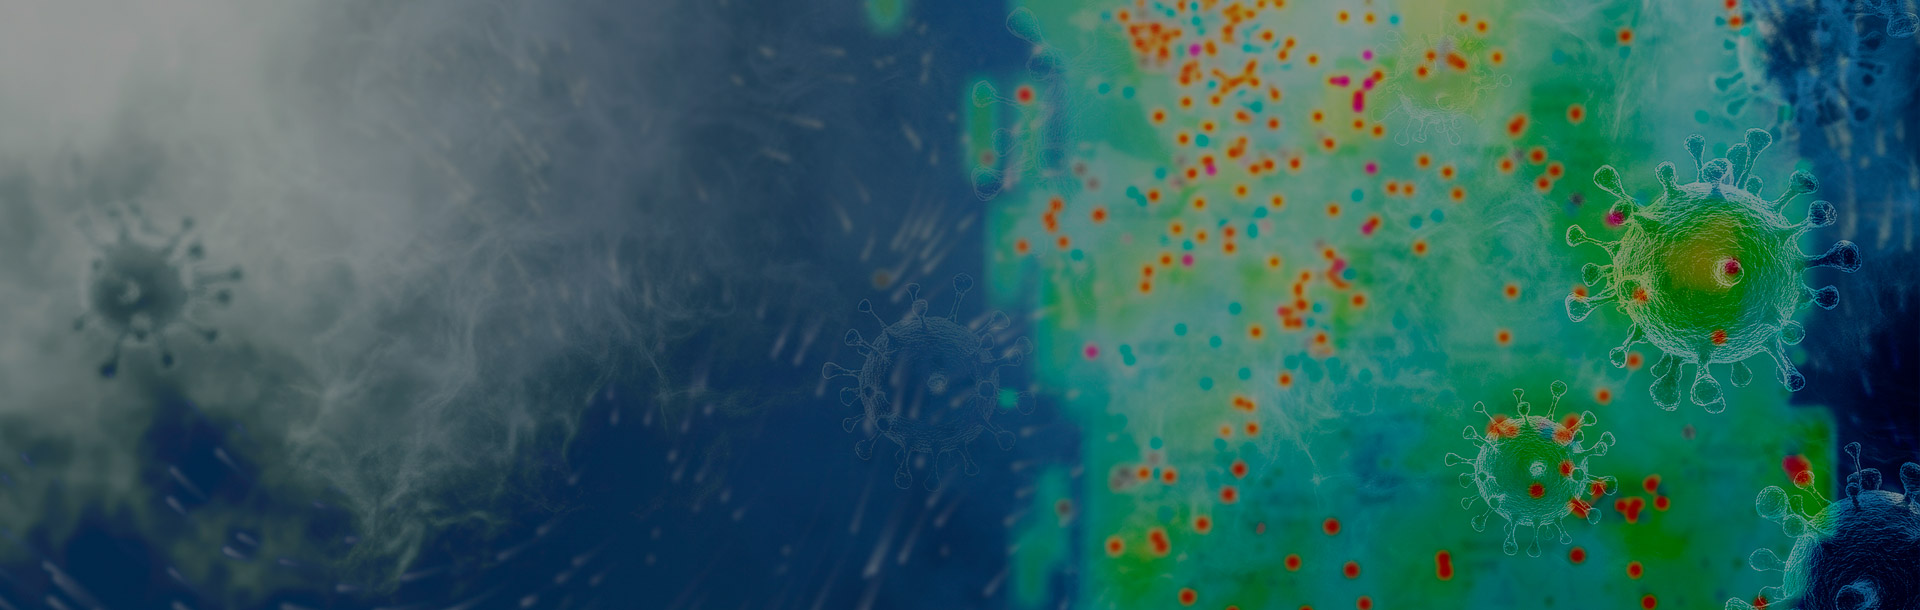
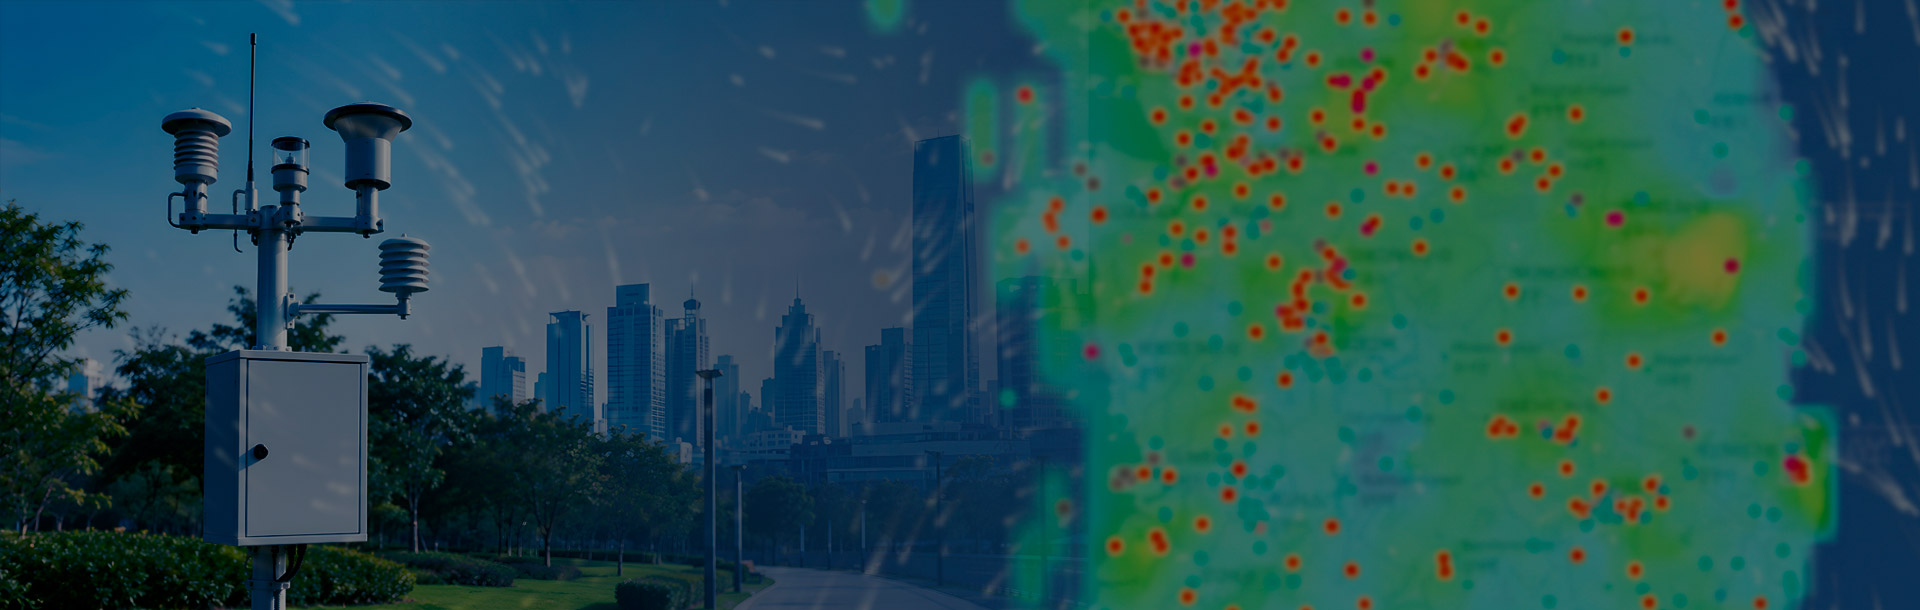
chore: 공기측정데이터 상단 히어로 이미지 교체(data_air 캐시버스터 v5)

diff --git a/src/app/data/measure/page.tsx b/src/app/data/measure/page.tsx
@@ -41,7 +41,7 @@ export default function AirMeasurePage() {
       <Header solid />
       <main>
         <SubHero
-          image="/assets/sub/data_air.jpg?v=4"
+          image="/assets/sub/data_air.jpg?v=5"
           title="공기 측정 데이터"
           subtitle={"고객이 숨 쉬는 그 자리의 공기를 가장 정확하게"}
         />
